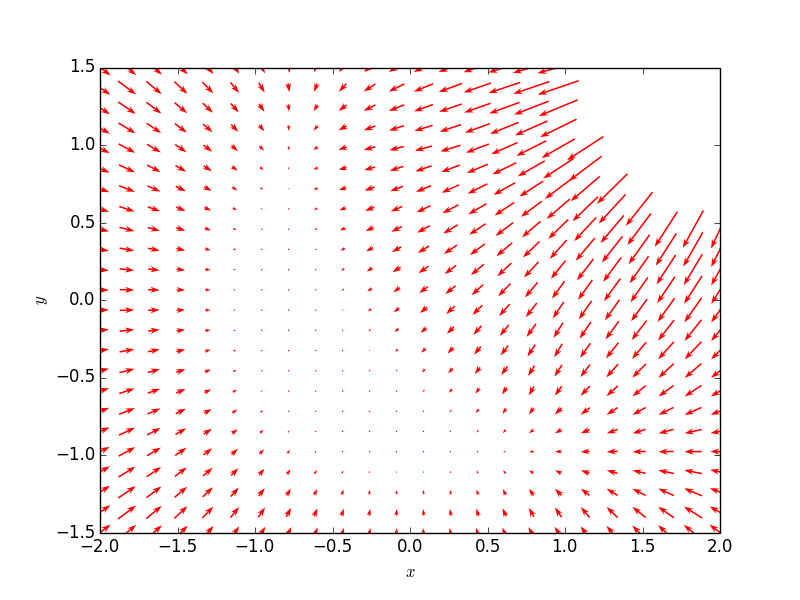
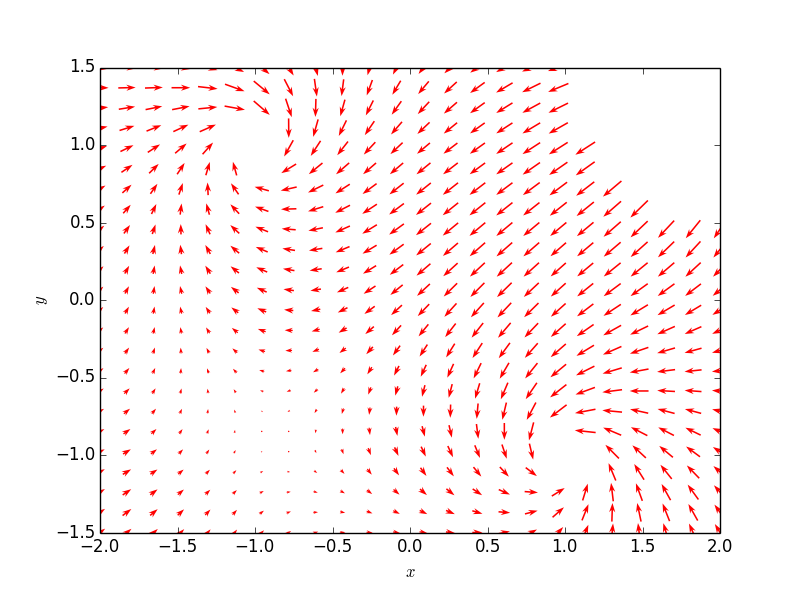
Graphs work for all types (attractive, repulsive, tangential-clockwise, tangential-ctr-clockwise)

Changed region(s): [[0.125, 0.12, 0.9062, 0.9], [0.125, 0.78, 0.2812, 0.87], [0.5, 0.42, 0.5312, 0.45]]

diff --git a/PotentialFields/combined.py b/PotentialFields/combined.py
@@ -3,9 +3,9 @@ __author__ = 'lexic92'
 import matplotlib.pyplot as plt
 import numpy
 import math
-from PotentialFields.model import Obstacle, Goal
+from PotentialFields.model import Obstacle, Goal, TangentialClockwise, TangentialCounterclockwise
 
-class AttractiveAndRepulsiveFields():
+class Combined():
     def sign(self, argument):
         '''
         Returns the sign of the argument. Intended for use in multiplication (because you can
@@ -60,11 +60,49 @@ class AttractiveAndRepulsiveFields():
                     sum_vx += 0
                     sum_vy += 0
                 elif d <= (r + s):
-                    sum_vx += (self._alpha*(d - r)*math.cos(theta))
-                    sum_vy += (self._alpha*(d - r)*math.sin(theta))
+                    sum_vx += (goal._alpha*(d - r)*math.cos(theta))
+                    sum_vy += (goal._alpha*(d - r)*math.sin(theta))
                 elif d > (r + s):
-                    sum_vx += (self._alpha*s*math.cos(theta))
-                    sum_vy += (self._alpha*s*math.sin(theta))
+                    sum_vx += (goal._alpha*s*math.cos(theta))
+                    sum_vy += (goal._alpha*s*math.sin(theta))
+
+            #theta - 90
+            for tangential in self._tangentialsClockwise:
+                # calculate distance to obstacle
+                d = tangential.getDistanceTo(x[i], y[i])
+                r = tangential._radius
+                s = tangential._spread
+                theta = tangential.getAngleToObstacleFrom(x[i], y[i]) - 90.0
+
+                # FOLLOWING FORMULA FROM Potential Fields PDF ON LEARNING SUITE CONTENT TAB
+                if d < r:
+                    sum_vx += (-self.sign(math.cos(theta))*float('inf'))
+                    sum_vy += (-self.sign(math.sin(theta))*float('inf'))
+                elif d <= (r + s):
+                    sum_vx += (-tangential._beta)*(s + r - d)*math.cos(theta)
+                    sum_vy += (-tangential._beta)*(s + r - d)*math.sin(theta)
+                elif d > (r + s):
+                    sum_vx += 0
+                    sum_vy += 0
+
+            #theta + 90
+            for tangential in self._tangentialsCounterclockwise:
+                # calculate distance to obstacle
+                d = tangential.getDistanceTo(x[i], y[i])
+                r = tangential._radius
+                s = tangential._spread
+                theta = tangential.getAngleToObstacleFrom(x[i], y[i]) + 90.0
+
+                # FOLLOWING FORMULA FROM Potential Fields PDF ON LEARNING SUITE CONTENT TAB
+                if d < r:
+                    sum_vx += (-self.sign(math.cos(theta))*float('inf'))
+                    sum_vy += (-self.sign(math.sin(theta))*float('inf'))
+                elif d <= (r + s):
+                    sum_vx += (-tangential._beta)*(s + r - d)*math.cos(theta)
+                    sum_vy += (-tangential._beta)*(s + r - d)*math.sin(theta)
+                elif d > (r + s):
+                    sum_vx += 0
+                    sum_vy += 0
             #---------------------------------------------------------------------------------------
 
             for obstacle in self._obstacles:
@@ -79,8 +117,8 @@ class AttractiveAndRepulsiveFields():
                     sum_vx += (-self.sign(math.cos(theta))*float('inf'))
                     sum_vy += (-self.sign(math.sin(theta))*float('inf'))
                 elif d <= (r + s):
-                    sum_vx += (-self._beta)*(s + r - d)*math.cos(theta)
-                    sum_vy += (-self._beta)*(s + r - d)*math.sin(theta)
+                    sum_vx += (-obstacle._beta)*(s + r - d)*math.cos(theta)
+                    sum_vy += (-obstacle._beta)*(s + r - d)*math.sin(theta)
                 elif d > (r + s):
                     sum_vx += 0
                     sum_vy += 0
@@ -98,13 +136,17 @@ class AttractiveAndRepulsiveFields():
         plt.show()
 
     #--------------------------MY CODE----------------------------
-    def __init__(self, goals, obstacles):
+    def __init__(self, goals, obstacles, tangentialsClockwise, tangentialsCounterclockwise):
         #Initialize variables first!
         self._FILE_NAME = 'attractive_and_repulsive_fields.png' #File name to save the figure as.
         self._goals = goals #List of "Goal" objects to make an attractive field of.
         self._obstacles = obstacles #List of "Obstacle" objects to make a repulsive field of.
+        self._tangentialsClockwise = tangentialsClockwise #List of "TangentialClockwise" objects to make a tangential field of.
+        self._tangentialsCounterclockwise = tangentialsCounterclockwise #List of "TangentialCounterclockwise" objects to make a tangential field of.
+
         self._alpha = 1 #For scaling the vx and vy values for attractive fields.
         self._beta = 1 #For scaling the vx and vy values for repulsive fields.
+        self._tbeta = 3 # for scaling tangential fields.
 
         #do stuff
         self._generateAttractiveAndRepulsiveFieldGraph()
@@ -115,6 +157,15 @@ if __name__ == "__main__":
     #TEST CASE runs when this file is run individually.
     goals = []
     goals.append(Goal.Goal(0, 0, 1, 2))
+
     obstacles = []
     obstacles.append(Obstacle.Obstacle(2, 1.5, 1, 2))
-    AttractiveAndRepulsiveFields(goals, obstacles)
+
+    tangentialsClockwise = []
+    tangentialsClockwise.append(TangentialClockwise.TangentialClockwise(-1, 1, .2, 2, 1))
+
+    tangentialsCounterclockwise = []
+    tangentialsCounterclockwise.append(TangentialCounterclockwise.TangentialCounterclockwise(1, -1, .2, 2, 1))
+
+
+    Combined(goals, obstacles, tangentialsClockwise, tangentialsCounterclockwise)

diff --git a/PotentialFields/tangentialFields.py b/PotentialFields/tangentialFields.py
@@ -1,0 +1,120 @@
+__author__ = 'lexic92'
+
+import matplotlib.pyplot as plt
+import numpy
+import math
+from PotentialFields.model import TangentialClockwise, TangentialCounterclockwise
+
+class TangentialFields():
+    def sign(self, argument):
+        '''
+        Returns the sign of the argument. Intended for use in multiplication (because you can
+        just multiply by a positive or negative 1). This "function" is defined in the repulsive field
+        formulas on the Potential Fields PDF on Learning Suite Content Tab.
+        :param argument: the number you want the sign of.
+        :return: 1 if it's positive, -1 if it's negative.
+        '''
+        if argument >= 0:
+            return 1
+        elif argument < 0:
+            return -1
+        else:
+            raise AssertionError()
+
+    def _generateRepulsiveFieldGraph(self):
+        # CODE FROM WALTER'S EXAMPLE IN SIMPLE.PY (UNMODIFIED, except for some parameters Ben might have modified)
+        fig = plt.figure()
+        ax = fig.add_subplot(111)
+
+        #generate grid
+        x = numpy.linspace(-2, 2, 24)
+        y = numpy.linspace(-1.5, 1.5, 24)
+        x, y = numpy.meshgrid(x, y)
+
+        #--------------------------MY CODE----------------------------
+        #To fix a bug (See http://stackoverflow.com/questions/13730468/from-2d-to-1d-arrays)
+        x = numpy.reshape(x, (1,numpy.product(x.shape)))[0]
+        y = numpy.reshape(y, (1,numpy.product(y.shape)))[0]
+
+        #initialize vectors (actually just lists)
+        vx = []
+        vy = []
+
+        # Loop from 0 to x.length-1, therefore running x.length times:
+        # (ASSUMING THAT x AND y VECTORS HAVE THE SAME NUMBER OF ITEMS (THEY SHOULD))
+        for i in range(0, x.size):
+            sum_vx = 0 # Add all of the repulsive fields and sum them up for each given position
+            sum_vy = 0 # Add all of the repulsive fields and sum them up for each given position
+
+            #theta - 90
+            for tangential in self._tangentialsClockwise:
+                # calculate distance to obstacle
+                d = tangential.getDistanceTo(x[i], y[i])
+                r = tangential._radius
+                s = tangential._spread
+                theta = tangential.getAngleToObstacleFrom(x[i], y[i]) - 90.0
+
+                # FOLLOWING FORMULA FROM Potential Fields PDF ON LEARNING SUITE CONTENT TAB
+                if d < r:
+                    sum_vx += (-self.sign(math.cos(theta))*float('inf'))
+                    sum_vy += (-self.sign(math.sin(theta))*float('inf'))
+                elif d <= (r + s):
+                    sum_vx += (-tangential._beta)*(s + r - d)*math.cos(theta)
+                    sum_vy += (-tangential._beta)*(s + r - d)*math.sin(theta)
+                elif d > (r + s):
+                    sum_vx += 0
+                    sum_vy += 0
+
+            #theta + 90
+            for tangential in self._tangentialsCounterclockwise:
+                # calculate distance to obstacle
+                d = tangential.getDistanceTo(x[i], y[i])
+                r = tangential._radius
+                s = tangential._spread
+                theta = tangential.getAngleToObstacleFrom(x[i], y[i]) + 90.0
+
+                # FOLLOWING FORMULA FROM Potential Fields PDF ON LEARNING SUITE CONTENT TAB
+                if d < r:
+                    sum_vx += (-self.sign(math.cos(theta))*float('inf'))
+                    sum_vy += (-self.sign(math.sin(theta))*float('inf'))
+                elif d <= (r + s):
+                    sum_vx += (-tangential._beta)*(s + r - d)*math.cos(theta)
+                    sum_vy += (-tangential._beta)*(s + r - d)*math.sin(theta)
+                elif d > (r + s):
+                    sum_vx += 0
+                    sum_vy += 0
+                    
+            vx.append(sum_vx)
+            vy.append(sum_vy)
+        #------------------------------------------------------------
+
+        # CODE FROM WALTER'S EXAMPLE IN SIMPLE.PY (UNMODIFIED, except for the filename it is saved as.)
+        ax.quiver(x, y ,vx, vy, pivot='middle', color='r', headwidth=4, headlength=6)
+        ax.set_xlabel('$x$') # $ cosmetically changes how the x looks
+        ax.set_ylabel('$y$')
+        ax.axis('image')
+        plt.savefig(self._FILE_NAME)
+        plt.show()
+
+    #--------------------------MY CODE----------------------------
+    def __init__(self, tangentialsClockwise, tangentialsCounterclockwise):
+        #Initialize variables first!
+        self._FILE_NAME = 'repulsive_fields.png' #File name to save the figure as.
+        self._tangentialsClockwise = tangentialsClockwise #List of "TangentialClockwise" objects to make a tangential field of.
+        self._tangentialsCounterclockwise = tangentialsCounterclockwise #List of "TangentialCounterclockwise" objects to make a tangential field of.
+
+        #do stuff
+        self._generateRepulsiveFieldGraph()
+    #------------------------------------------------------------
+
+
+
+if __name__ == "__main__":
+    #TEST CASE runs when this file is run individually.
+    tangentialsClockwise = []
+    tangentialsClockwise.append(TangentialClockwise.TangentialClockwise(-1, 1, .2, 2, 1))
+
+    tangentialsCounterclockwise = []
+    tangentialsCounterclockwise.append(TangentialCounterclockwise.TangentialCounterclockwise(1, -1, .2, 2, 1))
+
+    TangentialFields(tangentialsClockwise, tangentialsCounterclockwise)

diff --git a/PotentialFields/model/Goal.py b/PotentialFields/model/Goal.py
@@ -16,8 +16,9 @@ class Goal():
     def getAngleToGoalFrom(self, x, y):
         return numpy.arctan2(self._y - y, self._x - x)
 
-    def __init__(self, x, y, radius, spread):
+    def __init__(self, x, y, radius, spread, alpha=1):
         self._x = x # the x-coordinate of the center of the goal object.
         self._y = y # the y-coordinate of the center of the goal object.
-        self.radius = radius
+        self._radius = radius
         self._spread = spread
+        self._alpha = alpha

diff --git a/PotentialFields/model/TangentialCounterclockwise.py b/PotentialFields/model/TangentialCounterclockwise.py
@@ -2,7 +2,7 @@ __author__ = 'lexic92'
 
 import math
 
-class Obstacle():
+class TangentialCounterclockwise():
 
     def getDistanceTo(self, x, y):
         '''

diff --git a/PotentialFields/model/TangentialClockwise.py b/PotentialFields/model/TangentialClockwise.py
@@ -2,7 +2,7 @@ __author__ = 'lexic92'
 
 import math
 
-class Obstacle():
+class TangentialClockwise():
 
     def getDistanceTo(self, x, y):
         '''
